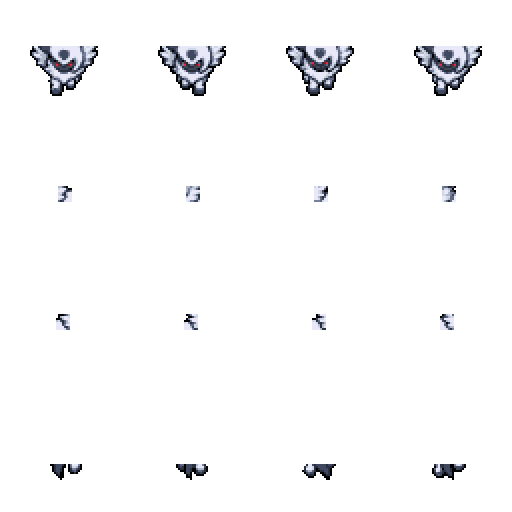
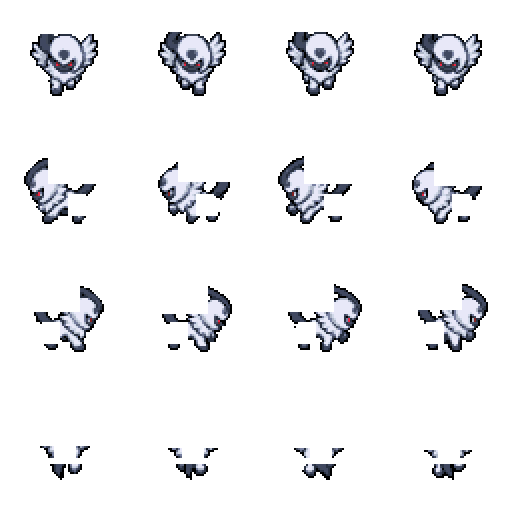
Fix Absol rider occlusion and synchronize walking seat motion

diff --git a/tools/build_absol_mounts.py b/tools/build_absol_mounts.py
@@ -1,7 +1,7 @@
 """Pack approved Absol pixels at exact 2x scale with fitted rider layers."""
 from pathlib import Path
 import json
-from PIL import Image
+from PIL import Image, ImageDraw
 from import_player_layered_sprites import write_texture_import
 
 ROOT = Path(__file__).resolve().parents[1]
@@ -9,11 +9,71 @@ MOUNTS = ('mega_absol', 'mega_absol_z')
 DIRECTIONS = ('down', 'left', 'right', 'up')
 # Move the artwork and its approved rider rig up one logical pixel to put
 # paws on the same world ground line as Cyclizar. Players retain 64px frames.
-OFFSETS = ((0, -40), (10, -20), (-10, -20), (0, -18))
-# Source-space foreground: frontal head, far leg, far leg, rear rump.
-# Near legs remain visible. Masks only remove rider pixels behind artwork.
-REGIONS = ((0, 24, 64, 64), (29, 30, 36, 38),
-           (28, 30, 35, 38), (0, 41, 64, 64))
+# Per-frame seat offsets follow the torso rather than freezing the rider in
+# world space. Side seats are further back so the head/feathers have room.
+OFFSETS = {
+    'mega_absol': (
+        ((0,-46),(0,-48),(0,-48),(0,-46)),
+        ((16,-24),(18,-26),(16,-24),(18,-22)),
+        ((-16,-24),(-16,-22),(-18,-24),(-18,-26)),
+        ((0,-18),(0,-16),(-2,-16),(0,-14)),
+    ),
+    'mega_absol_z': (
+        ((0,-48),(0,-50),(0,-48),(0,-50)),
+        ((20,-22),(20,-20),(20,-20),(22,-22)),
+        ((-20,-22),(-22,-24),(-20,-22),(-20,-24)),
+        ((0,-18),(0,-16),(-2,-18),(-2,-20)),
+    ),
+}
+
+
+def foreground_pixels(art, mount_id, row, col):
+    """Select occluding anatomy, never rectangular pieces through feathers.
+
+    The base mount remains complete. Only rider pixels covered by this exact
+    same foreground silhouette are masked. All colors are original artwork.
+    """
+    selection = Image.new('L', (64,64))
+    draw = ImageDraw.Draw(selection)
+    if row == 0:
+        # The head, horn and shoulder fans are all in front of the rider.
+        selection.paste(255, (0,0,64,64))
+    elif row in (1,2):
+        # The rider may cover the saddle and haunch, but never the raised
+        # tail, horn, face or wing outline. A small saddle opening retains
+        # the near leg without cutting rectangular holes through anatomy.
+        selection.paste(255, (0,0,64,64))
+        points = [(34,34),(42,34),(46,40),(44,44),(34,44)]
+        if row == 2:
+            points = [(63-x,y) for x,y in points]
+        draw.polygon(points, fill=0)
+    else:
+        # Keep the rider over the saddle area, but retain the complete outer
+        # shoulder fans and the rump. Do not lay the rear head over their face.
+        draw.polygon([(0,19),(25,19),(26,29),(26,37),(0,40)], fill=255)
+        draw.polygon([(63,19),(39,19),(38,29),(38,37),(63,40)], fill=255)
+        draw.rectangle((0,41,63,63),fill=255)
+    if mount_id == 'mega_absol_z' and row in (1,2):
+        # Include every magenta feather plus its immediate dark outline.
+        # A color silhouette follows each generated pose's actual feather fan.
+        for y in range(64):
+            for x in range(64):
+                r,g,b,a = art.getpixel((x,y))
+                if a and r>60 and r>b*1.3 and r>g*2:
+                    draw.rectangle((max(0,x-1),max(0,y-1),min(63,x+1),min(63,y+1)),fill=255)
+    # Creature anatomy sits in front of the rider's lower body, while the
+    # face/helmet remains above the raised horn, feathers and tail. Clearing
+    # only the foreground here does not remove art: the full base mount stays
+    # underneath. The box follows the seated player's 32px logical frame.
+    dx, dy = OFFSETS[mount_id][row][col]
+    head_left, head_top = 16 + dx//2, 17 + dy//2
+    draw.rectangle((head_left, head_top, head_left+31, head_top+23), fill=0)
+    foreground = Image.new('RGBA',(64,64))
+    for y in range(64):
+        for x in range(64):
+            if selection.getpixel((x,y)):
+                foreground.putpixel((x,y), art.getpixel((x,y)))
+    return foreground
 
 
 def build():
@@ -30,8 +90,7 @@ def build():
                 creature.alpha_composite(art, (0,-1))
                 assert creature.getchannel('A').histogram()[255] == art.getchannel('A').histogram()[255]
                 foreground = Image.new('RGBA', (64, 64))
-                rect = REGIONS[row]
-                foreground.alpha_composite(art.crop(rect), (rect[0], rect[1]-1))
+                foreground.alpha_composite(foreground_pixels(art, mount_id, row, col), (0,-1))
                 mask = Image.new('RGBA', (64, 64))
                 mask.putalpha(foreground.getchannel('A'))
                 for key, tile in [('mount', creature), ('foreground', foreground), ('rider_mask', mask)]:
@@ -49,7 +108,7 @@ def build():
             write_texture_import(ROOT, (folder/name).relative_to(ROOT))
         definition = catalog['mounts'][mount_id]
         assert definition['frameSize'] == [128,128]
-        assert definition['riderOffsets'] == {d:[list(OFFSETS[r]) for _ in range(4)] for r,d in enumerate(DIRECTIONS)}
+        assert definition['riderOffsets'] == {d:[list(v) for v in OFFSETS[mount_id][r]] for r,d in enumerate(DIRECTIONS)}
         print(f'Built {mount_id}: approved pixels, 128px frames, fitted layers and icon.')
 
 

diff --git a/docs/mounts/mega_absol_z.md b/docs/mounts/mega_absol_z.md
@@ -14,12 +14,21 @@ walking phases at 5 fps. Source pixels retain their exact colors and 2× scale.
 The full rig moves upward one logical pixel from the approved seated preview,
 aligning paws to the ordinary player ground line. Player frames remain 64×64.
 
-Directional masks put the head in front of the rider when facing south, conceal
-the far leg in side views, and place the rear rump ahead of overlapping feet.
-Foreground and mask share precisely the same silhouette pixels in every frame.
-Near-side legs remain visible. Rider poses remain static while mount and masks
-advance together. Both genders use the existing body, clothes, hair and headgear.
-The mounts use normal land movement, collision and world depth, without hovering.
+Directional masks follow the complete head, shoulder-fan and raised-tail
+silhouettes instead of small rectangular patches. Side seats sit further back,
+with a separate fit for each variant. A small saddle opening keeps the near leg
+in front of the torso. Foreground and mask share precisely the same silhouette
+pixels. The full base mount is always preserved underneath.
+
+The rider head/helmet envelope is excluded from both occlusion layers, so high
+horns, feathers and tails sit behind the face but ahead of the lower rider. This
+envelope follows each frame's seat. Male and female players keep their original
+64×64 frames and existing clothing/appearance layers.
+
+The seated source pose remains static, while the complete rider moves with
+small directional per-frame offsets following the walking cycle. Offsets are
+matched in the catalog, foreground/mask export and animation sync, including the
+last-to-first transition. The mounts use ordinary land collision and world depth.
 
 Each variant has a dedicated 64×64 icon and item text in en, nl, pt_BR and zh_CN.
 The PNG fallback loader also handles assets not yet imported by an open editor.

diff --git a/CHANGELOG.md b/CHANGELOG.md
@@ -2,6 +2,8 @@
 
 ## Unreleased
 
+- Keep Absol mount feathers, fur and tails visible around the seated player, protect the rider face from foreground clipping, and synchronize directional seat movement with all walking phases.
+
 - Add follower-based Mega Absol and refresh Mega Absol Z with approved compact artwork, fitted player masks, four-direction animation and individual icons.
 
 - Reuse loaded profile preferences at startup to avoid a redundant settings request and its timeout during world loading.
